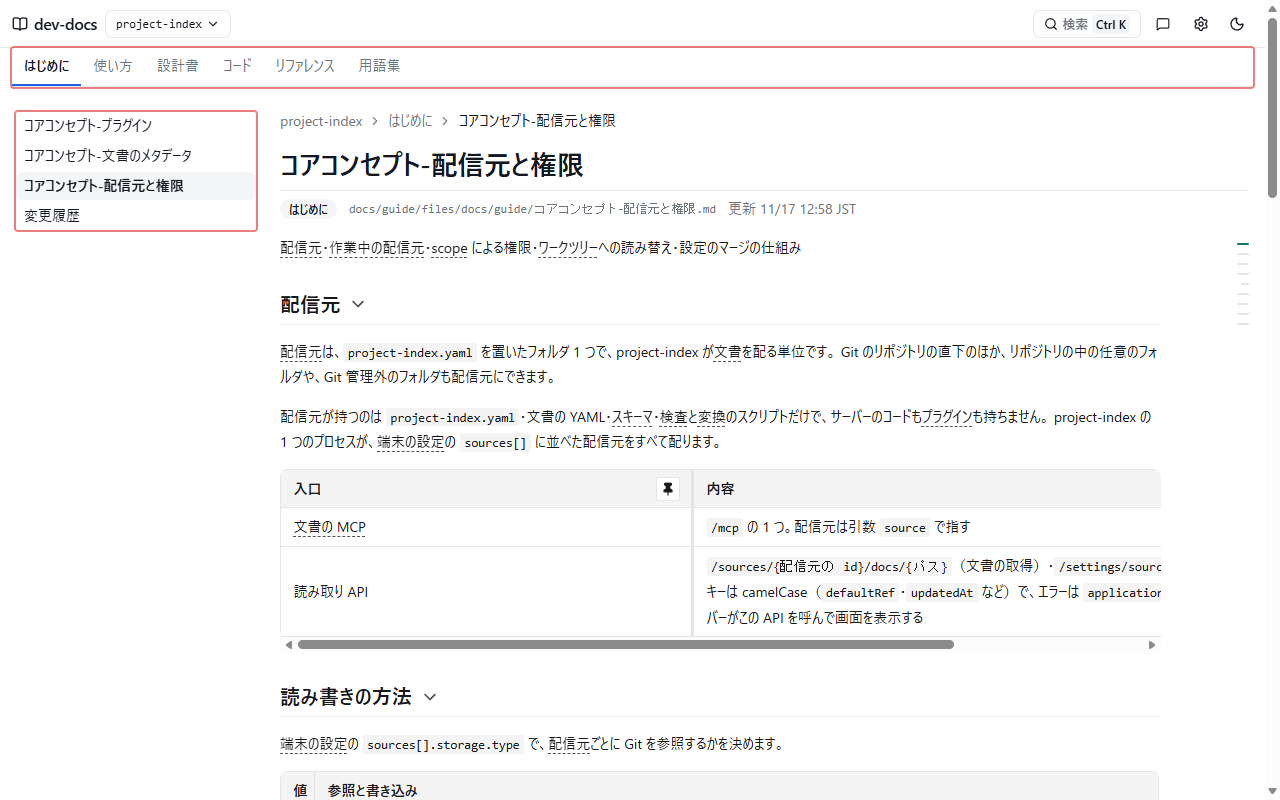
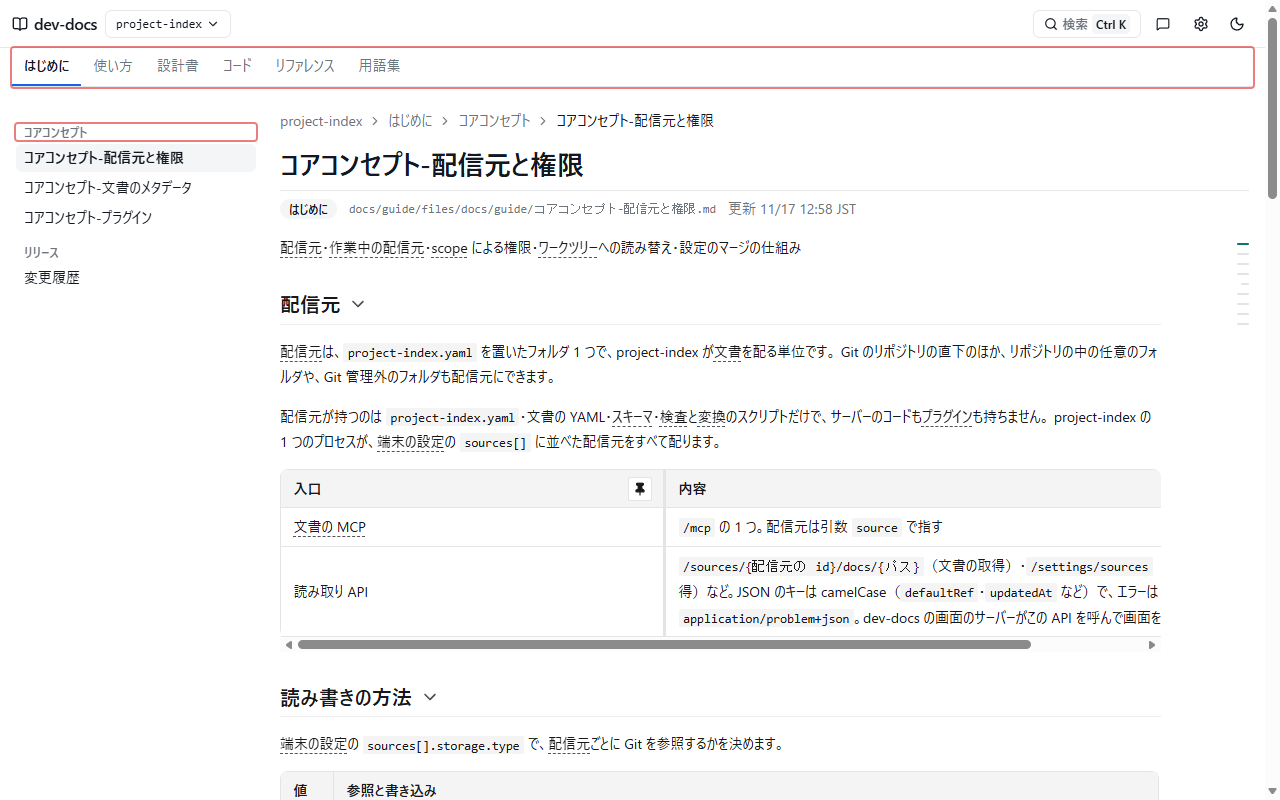
docs: nav のグループと並びを規約『開発ドキュメントのナビゲーション』に合わせる

diff --git a/docs/pr/111/要件.md b/docs/pr/111/要件.md
@@ -29,8 +29,10 @@
 
 | タブ | スクリーンショット | 確認したこと |
 | --- | --- | --- |
-| はじめに | `画面の確認/はじめに_1280x800.png` | タブが 6 件で画面の幅に収まり、はじめにが左端。サイドバーにコアコンセプトと変更履歴だけが並ぶ |
-| 設計書 | `画面の確認/設計書_1280x800.png` | 種類ごとのタブが無く、サイドバーが全体・シナリオ・インターフェース定義などのグループになる。目次が出ない |
+| はじめに | `画面の確認/はじめに_1280x800.png` | タブが 6 件で画面の幅に収まり、はじめにが左端。コアコンセプト（配信元と権限 → 文書のメタデータ → プラグイン）とリリース（変更履歴）のグループになる |
+| 使い方 | `画面の確認/使い方_1280x800.png` | 導入と更新（入れる → 配信元を配信する → 更新する）と判定のグループになる |
+| 設計書 | `画面の確認/設計書_1280x800.png` | 種類ごとのタブが無く、全体（フォルダ構成の名前で表示）・シナリオ（利用者の手順の順）・インターフェース定義の入口ごとのグループになる。目次が出ない |
+| 設計書（モジュール構成） | `画面の確認/設計書-モジュール構成_1280x800.png` | モジュール構成が分類（パッケージ・入口・起動 …）ごとのグループになる |
 | コード | `画面の確認/コード_1280x800.png` | 索引のサーバー・プラグイン・テストのグループの下を、ファイルのタグ（機能の単位）でまとめる |
-| リファレンス | `画面の確認/リファレンス_1280x800.png` | CLI・文書のMCP・管理のMCP・設定・読み取りAPI が並び、用語集が出ない |
-| 用語集 | `画面の確認/用語集_1280x800.png` | 用語集のページの下に用語が並ぶ |
+| リファレンス | `画面の確認/リファレンス_1280x800.png` | MCP と API・CLI と設定のグループになり、用語集が出ない |
+| 用語集 | `画面の確認/用語集_1280x800.png` | 用語集のグループに、用語集のページと用語が並ぶ |
